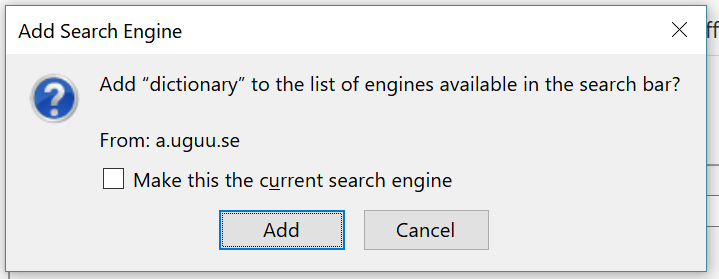
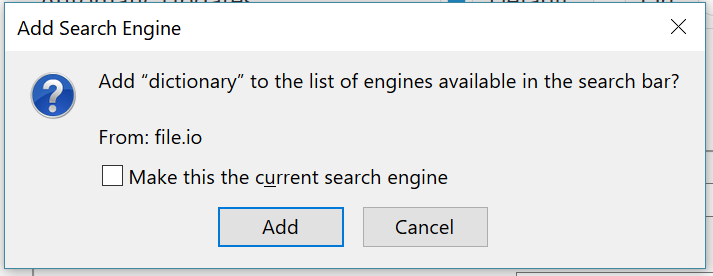
[1.0.1] Change file host from uguu.se to file.io #1

diff --git a/README.md b/README.md
@@ -13,7 +13,7 @@ When the inputs are ready, press the "Add search engine" button.
 
 A confirmation window will be displayed to add the search engine.
 
-(Due to technical limitations, no API is available to directly add a search engine from an extension starting with Firefox 57, that's why the website uguu.se is used to temporarily host the open search xml that will be used by Firefox to add the engine.)
+(Due to technical limitations, no API is available to directly add a search engine from an extension starting with Firefox 57, that's why the website file.io is used to temporarily host the open search xml that will be used by Firefox to add the engine.)
 
 ![add-search-engine-confirmation](https://raw.githubusercontent.com/soufianesakhi/firefox-search-engines-helper/master/screenshots/add-search-engine-confirmation.PNG)
 
